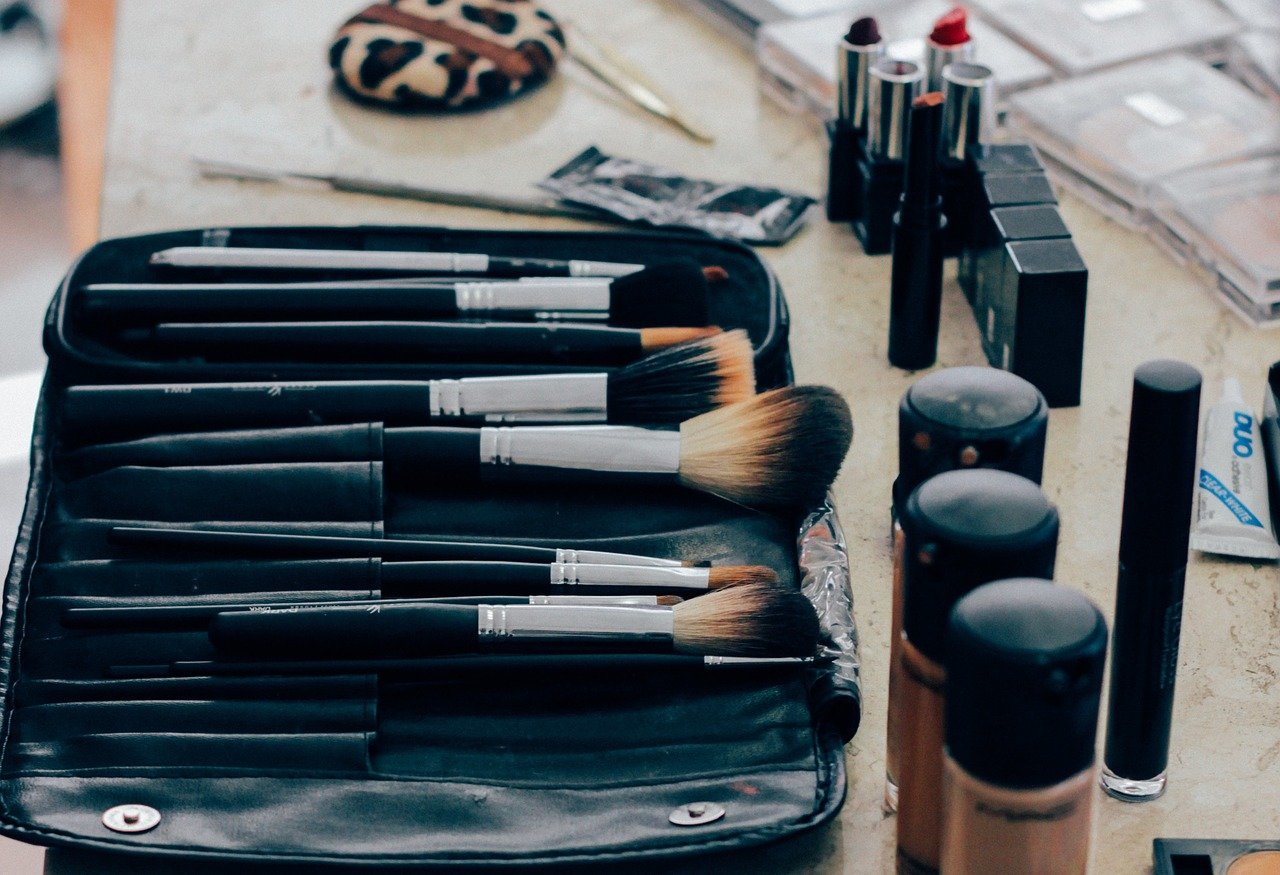
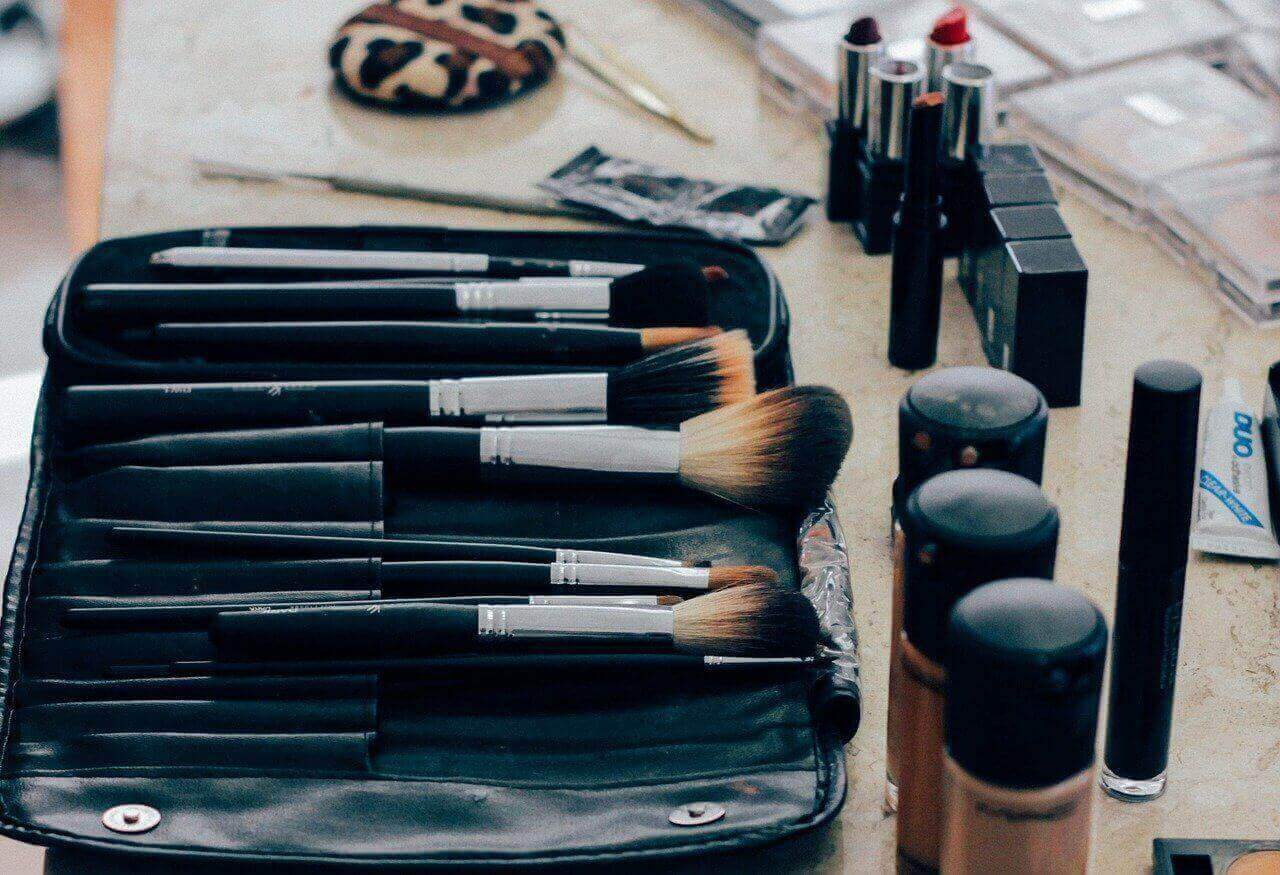
minor HTML updates + uploaded compressed category images

diff --git a/templates/includes/navbar.html b/templates/includes/navbar.html
@@ -51,14 +51,14 @@
         <div class="dropdown-divider"></div>
         <form class="form-inline" method="GET" action="{% url 'search' %}">
             <input class="form-control search-bar" name="q" type="search" placeholder="Search" aria-label="Search">
-            <button class="btn nav-icon" type="submit">
+            <button class="btn nav-icon" type="submit" aria-label="search">
                 <i class="fas fa-search"></i>
             </button>
         </form>    
         <div class="dropdown-divider"></div>
         <ul class="navbar-nav mx-auto">
             <li class="nav-item d-none d-lg-block">
-                <a class="nav-link" href="{% url 'home' %}">
+                <a class="nav-link" href="{% url 'home' %}" aria-label="Home">
                     <i class="nav-icon fas fa-home"></i>&nbsp;
                 </a>
             </li>

diff --git a/templates/base.html b/templates/base.html
@@ -9,6 +9,7 @@
         <meta http-equiv="x-ua-compatible" content="ie=edge"/>
         <meta charset="utf-8">
         <meta name="viewport" content="width=device-width, initial-scale=1, shrink-to-fit=no">
+        <meta name="description" content="Your new favourite makeup site. A one stop shop for brand new look or to stick to what you know. We've got all of your best-loved products, as well as all the new things you need to know about."
     {% endblock %}
 
     <!-- Custom Meta tags -->

diff --git a/templates/includes/featured-products.html b/templates/includes/featured-products.html
@@ -1,5 +1,5 @@
 {% load static %}
-<h4 class="featured-products-heading mx-auto"><i class="fas fa-star"></i> Featured Products <i class="fas fa-star"></i></h4>
+<h3 class="featured-products-heading mx-auto"><i class="fas fa-star"></i> Featured Products <i class="fas fa-star"></i></h3>
 <div class="carousel" data-flickity='{ "imagesLoaded": true, "percentPosition": false, "groupCells": true }'>
 {% for product in featured_products %}
     <div class="carousel-cell">

diff --git a/contact/forms.py b/contact/forms.py
@@ -16,7 +16,6 @@ class SubscriptionForm(forms.ModelForm):
         for field in self.fields:
             placeholder = placeholders[field]
             self.fields[field].widget.attrs["placeholder"] = placeholder
-            self.fields[field].label = False
 
 class SecureMessageForm(forms.ModelForm):
     class Meta:
